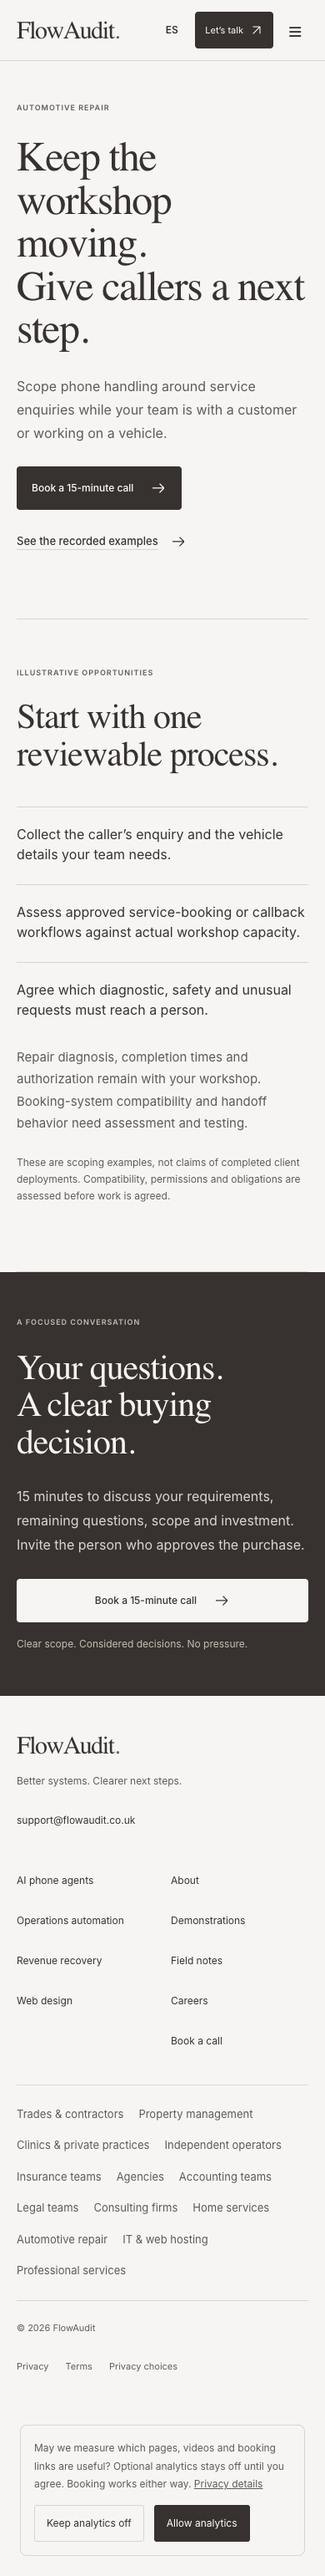
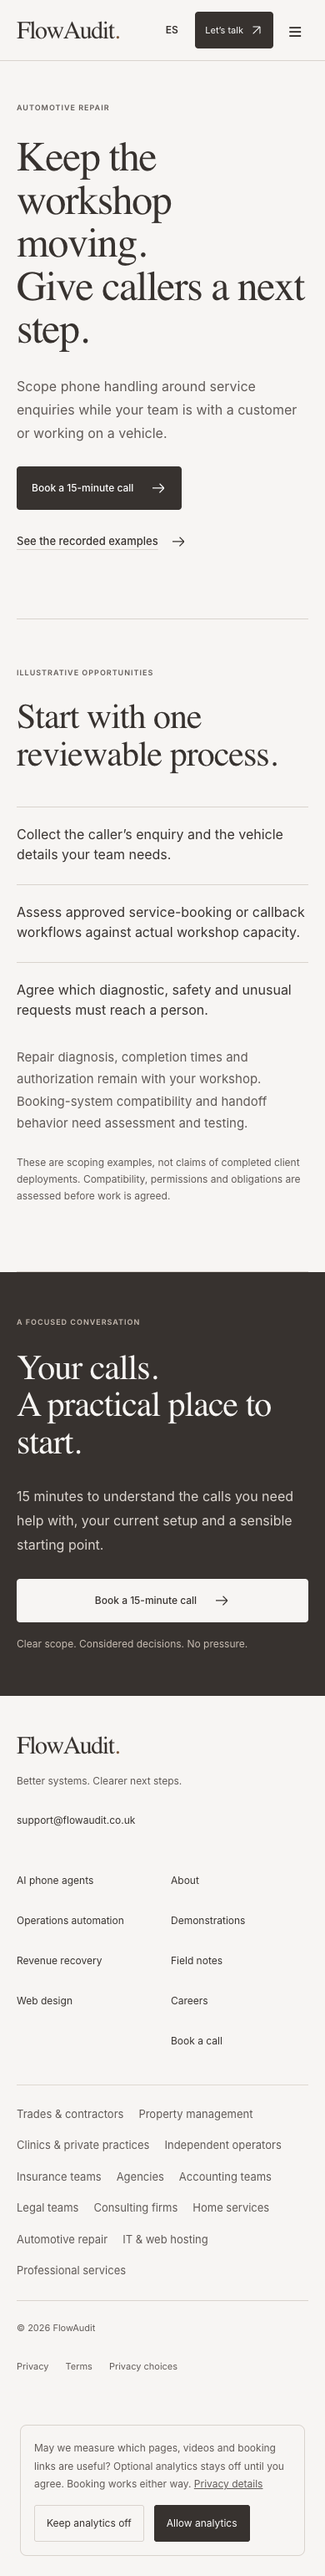
docs: record verified staging and final website review

Changed region(s): [[0.0615, 0.5295, 0.8923, 0.623]]

diff --git a/docs/transformation/INDEPENDENT-REVIEW.md b/docs/transformation/INDEPENDENT-REVIEW.md
@@ -1,41 +1,44 @@
-# Independent code, security and factual review · 21 October 2026
+# Independent website review · 21 October 2026
 
-Review covers the transformation diff against 7cf9785, with an initial review and a source recheck after implementing fixes. This is not production approval or a claim that the full media brief is complete.
+Rechecked source and recorded evidence at **4fb6f97**, draft PR **#32**. This review covers the website checkpoint only. It does not accept the unfinished video mission or authorize a production release.
 
 ## Scoped verdicts
 
-- **Technical source review: PASS for reviewed fixes, subject to final build/browser evidence.** No new auth weakening, credential creation, arbitrary execution, production-setting changes or privileged API expansion found. Existing private-showcase protections are retained. Typecheck and `git diff --check` passed independently during review.
-- **Factual/public-content review: remaining correction and fresh-bundle verification required.** Source import path for obsolete dictionaries is fixed. Clinics Spanish headline still contains the every-call absolute at recheck; see pending items below.
-- **Whole-task acceptance: INCOMPLETE.** Five-demo public release, main/extended/teaser finished films, rights/privacy clearance, narration and media QA remain explicit gaps. A production bible is not a finished film. Do not present this review as whole-task PASS.
+- **Website technical source: PASS for staging review.** Previously identified runtime dictionary leak, hero CSS collision, broken media links and catalogue positioning issues are fixed. Independent source inspection and `git diff --check` found no remaining blocking source defect in the reviewed changes. Final build/browser evidence is recorded below. Latest CI remains pending after the origin-specific test correction; local evidence is not a substitute for claiming CI passed.
+- **Website security/privacy source: PASS within changed scope.** No new authentication weakening, credential creation, privileged API expansion, token publication or production-setting change found. Existing private showcase/watch protections remain. Unreviewed showcase media has not been added to the new discoverable demo journey. Do not interpret noindex as access authorization or evidence of publication rights.
+- **Website design: PASS as a coherent reviewable foundation.** Desktop and 390px homepage screenshots were inspected. Warm editorial typography, clear call-first headline, restrained palette, consistent spacing, real recording and subordinate secondary services form a cohesive journey. Desktop proof sits beside the headline; mobile stacks cleanly with visible actions and no evident horizontal clipping. Consent now sits in document flow and does not cover the hero CTA. The proof panel still contains many download/explanation controls; it could be simplified progressively when relevant reviewed home-services proof is ready.
+- **Whole-task acceptance: INCOMPLETE.** Five-demo public release, finished 75–90s main VSL, conditional extended film, teasers, 9:16 masters and their final audio/caption/media QA remain undelivered here. The production bible is not a finished film. Do not describe this scoped review as whole-mission PASS.
 
-## Resolved findings · source verified
+## Findings resolved · source verified
 
-1. **Legacy public-dictionary exposure:** Initial generated output contained obsolete pricing examples and unsupported absolutes in `.next/static/chunks/9120-a152b739c0358d38.js`. Recheck confirms `LocaleProvider` now carries only locale and setter; `i18n.ts` imports no dictionaries and contains no discount helper. Legacy translation and unused section/content source is archived as `.txt` outside `src` and `public`, preserving history without runtime imports. A fresh production build and bundle scan must confirm the old chunk is gone; the old output was not itself proof of a failed fix.
-2. **Desktop hero CSS collision:** New hero now uses `fa-call-first-hero` with explicit `display:grid`, desktop columns and a ≤900px single-column override. It no longer inherits `.fa-phone-hero {display:block}`. Verify actual screenshots/computed layout in final browser pass.
-3. **Retired media anchors:** Overview link now uses `/industries/dental#full-demonstrations`; routine link uses `/industries/dental#demo` and “See the dental overview.” These target the retained dental page instead of removed general-product anchors.
-4. **Shared service positioning:** A separate `dentalOffer` preserves targeted dental content; common phone service label, headline, intro and note now describe general service-business phone agents, USA primary / UK supported. `/services` no longer needs to inherit the dental/DSO intro.
-5. **English clinics absolute:** English title now says “Help with patient enquiries” rather than “Answer every patient call.” Spanish remains to correct.
-6. **Public historical monetary film:** Five-minute arithmetic film and its downloads/transcript moved outside `public/`; runtime transcript entry and player choice removed. Historical source is preserved, not destroyed.
-7. **Booking event semantics:** Client funnel whitelist does not admit invented `booking_confirmed`; genuine provider confirmation paths remain separate. New test verifies rejection of unsupported client booking confirmation.
+1. Initial browser output contained legacy monetary examples and unsupported every-call claims because `LocaleProvider → i18n → translations` imported both complete dictionaries. `LocaleProvider` now carries only locale/setter; `i18n.ts` imports no dictionaries or discount helper. Obsolete source is preserved as `.txt` outside `src` and `public`. Fresh generated public-content scan reports zero matches for the defined monetary/absolute-claim patterns.
+2. New `fa-call-first-hero` explicitly declares desktop grid and a ≤900px single-column layout, isolating it from the legacy `.fa-phone-hero {display:block}` rule. Screenshot inspection confirms the intended layout.
+3. Overview/routine media links now target retained dental sections, with corrected link wording. The general product page no longer needs the removed `full-demonstrations` anchor.
+4. A separately preserved `dentalOffer` retains targeted dental copy; common phone-agent service catalogue language is general, USA primary / UK supported.
+5. Clinics every-call headline is qualified in both English and Spanish. Spanish now says “Ayuda con consultas de pacientes.”
+6. Historical five-minute arithmetic film and downloads/transcript moved outside public assets. Runtime transcript entry/player choice removed. Source history was preserved rather than destroyed.
+7. Social card now leads with “AI phone agents & voice automation · USA & UK.”
+8. English fallback industry content and technical/demo blocks have explicit language tagging where implemented; this improves language attribution but does not constitute full Spanish localization.
+9. Browser tests were adapted to the retained dental journey and calendar-first booking. Final bounded local browser JSON records 71 expected passes, one intentional skip, zero unexpected failures and zero flaky results; focused rerun records 28 expected passes and zero failures.
 
-## Pending corrections / limitations
+## Evidence inspected
 
-1. **P1 · Spanish clinics every-call absolute.** `src/lib/editorial-copy.ts` clinics title still says “Atiende cada llamada de paciente” (= answer every patient call). Replace with qualified enquiry-handling language in Spanish too, then include both languages in public-content scans.
-2. **P2 · Final browser tests still contain retired assertions.** `tests/e2e/marketing.spec.ts` around lines 391/403 still refers to “Back to the overview” and `main` media. Source routes have changed correctly; update test expectations to the retained dental overview/summary and run the entire browser suite. `vsl-journey.spec.ts` now points to the dental route; no full suite was run concurrently by this reviewer.
-3. **P2 · Language attribution.** New industry helper copies English into Spanish fields, demo cards are English-only, and `/trust` is English-only while global locale can set `html lang=es`. Translate or explicitly mark English-only sections with `lang=en`/provide a clear English fallback. This is a language/accessibility limitation, not evidence of translated completion.
-4. **P2 · Booking context still resets the calendar.** Optional context uses `setRevision` and remounts the Cal embed. Existing disclosure asks users to apply context before choosing a time. Determine whether supported provider APIs can update context without losing selection; otherwise retain the disclosure and report the limitation. No live Cal settings were changed.
-5. **P2 · Shared social card remains broad.** `src/app/opengraph-image.tsx` still says “Phone handling · Operations · Revenue recovery · Websites.” Refocus it on phone agents for consistency; secondary services can remain discoverable in their own journeys.
-6. **P2 · Final scope gaps.** Five-demo public library currently offers one cleared recording and four held-context cards. Main film script/bible is deliberately unfinished pending verified source dialogue, clearance/redaction and suitable narration. Those gaps must remain explicit and block full-mission completion claims.
+- Source recheck at 4fb6f97 and independent `git diff --check`: PASS.
+- Independent initial TypeScript check: PASS. Final parent-run strict types/lint and 50 unit tests: PASS per QA report; production build generates 65 routes.
+- `browser-all.json`: 71 passed, 1 intentionally skipped, 0 unexpected/flaky; duration 67.98 seconds. Live Cal smoke is intentionally opt-in/skipped; no test appointment was created.
+- `browser-final.json`: 28 passed, 0 skipped/unexpected/flaky; current JSON duration 16.97 seconds.
+- `public-content-scan.json`: zero matches across `.next/static/chunks`, `.next/server/app`, `public` for its defined monetary/absolute-claim patterns. This targeted scan does not establish every spoken word or image pixel is clear; no end-to-end audio/media rights review is claimed.
+- Visual inspection: `home-desktop.png` and `evidence/home-390.png`.
+- Lighthouse raw JSON independently read: home **96/100/100/100**, phone-agent **91/100/100/100**, demos **95/100/100/100**, home-services **98/100/100/100**, booking **98/100/77/100** (performance/accessibility/best-practices/SEO). CLS 0 in all five samples. These are lab measurements, not field Core Web Vitals.
+- Preview provided by implementer: https://flowaudit-platform-b9xgh7690-curtisboadums-projects.vercel.app . Parent verified HTTP 200 and noindex; reviewer did not independently make a preview-network request. Draft PR: https://github.com/curtisboadum/flowaudit-platform/pull/32 . Production remains unchanged.
 
-## Validation evidence
+## Remaining limitations / blockers
 
-- PASS: independent `pnpm --config.verify-deps-before-run=false typecheck` during initial review.
-- PASS: `git diff --check` at initial review and after source-fix recheck.
-- Confirmed initial defect: public bundle included legacy monetary examples/absolute claims.
-- SOURCE FIX VERIFIED: obsolete dictionary runtime import path removed.
-- PENDING: fresh-bundle content scan after current build; final lint/types/unit tests/build; browser/axe/Lighthouse evidence; media decode/listening/rights verification. Parent owns final execution and exact results.
+1. **Media and commercial evidence:** The new discoverable library has one previously documented redacted dental recording and four held-context cards. Relevant home-services proof still requires verified dialogue, privacy redaction and public-use rights. Existing source accessibility is not consent. No fabricated workflow or customer success may be inserted to fill the gap.
+2. **Finished production:** Main film, extended film decision, teasers, portrait versions, final SRT/transcript/stems and edit QA remain separate deliverables. Current production bible accurately describes gaps; it must not be presented as completed production.
+3. **CI resolved after review:** Initial origin-hardcode issue was fixed in 4fb6f97. Source CI run 39540762265 subsequently completed successfully. Draft PR remains appropriate because media and full acceptance remain open.
+4. **Performance targets not all met:** LCP lab samples are home 2.8s, product 3.5s, demos 3.0s, home-services/booking 2.5s. Product/demos (and home) exceed the <2.5s “good” target. Booking best-practices 77 reflects existing Cal third-party-cookie/Issues-panel behavior; no live provider settings were changed. Report these gaps without claiming all quality targets passed.
+5. **Booking context:** Applying optional context remounts the existing calendar; users are warned to apply it before selecting a time. Persistent direct provider fallback remains. No real confirmed-booking receipt was tested; a genuine supported provider event remains required for confirmation measurement.
+6. **Partial localization:** Language tagging now distinguishes English fallback content, but the new industry/trust/demo content is not fully translated. Do not claim full bilingual parity.
 
-No new public link exposes the supplied prospect token or personalized showcase label. No memories were edited. Findings were sent to the implementing parent incrementally; this review is stored in docs to respect the user's instruction not to alter local memory.
-
-## Implementation response
-After review: Spanish clinics absolute corrected; social card now phone-agent focused; stale film assertions updated; trust/demo English-only blocks marked lang=en. Calendar context deliberately remains optional, with an explicit warning that applying it reloads the provider before time selection; changing live Cal behavior is outside scope. Fresh bundle scan excludes technical React reference tokens from monetary-amount matching. See final QA report for executed evidence rather than treating earlier results as final.
+No memories were edited. Review files live in docs, respecting the user's no-memory-change instruction. No production release, paid purchase, DNS change, new credential or sales outreach is included in this review approval.

diff --git a/docs/transformation/WEBSITE-HANDOFF.md b/docs/transformation/WEBSITE-HANDOFF.md
@@ -1,0 +1,21 @@
+# Website handoff
+
+Worktree: /Users/curtis/Documents/Codex/2026-10-21/task/site
+Repository admin clone: /Users/curtis/Documents/Codex/2026-10-21/task/repository
+Remote: curtisboadum/flowaudit-platform
+Branch: feat/phone-agent-transformation
+Validated source commit: 4fb6f972ab0df52abbf84bb51127b4478c1ea1b1
+Draft PR: https://github.com/curtisboadum/flowaudit-platform/pull/32
+Stable branch preview: https://flowaudit-platform-git-feat-phone-534b32-curtisboadums-projects.vercel.app
+Verified immutable preview: https://flowaudit-platform-fglgnx4bv-curtisboadums-projects.vercel.app
+Local preview remains running: http://127.0.0.1:3016
+
+Implementation: homepage/general product, home-services priority, trades/property refinement, automotive/IT/professional-services, targeted dental preservation, technical/trust page, business-focused optional qualification, subordinate secondary services. Consent in flow; private showcase controls preserved; obsolete runtime financial/absolute-claim strings archived outside public; no new pricing or hypothetical financial film in public journey. Original checkouts and uncommitted work unchanged.
+
+Evidence: QA-REPORT.md, INDEPENDENT-REVIEW.md, browser-all.json (71 passed /1 intentional skip), browser-final.json (28 passed), Lighthouse JSON, evidence screenshots, public-content-scan.json. Remote CI run39540762265 passed on4fb6f97. Source lint/types/build50unit pass. Home96/product91/home-services98/demos95/book98 local performance; all accessibility/SEO100; book best-practices77 due existing Cal cookies. CLS0 all samples; some LCP above2.5s remains open.
+
+Media integration is deliberately open. Current discoverable /demos plays documented redacted dental evidence and shows four review-context cards. It is not a finished five-demo library or final home-services proof. Separate video task should provide cleared source/transcript/redaction evidence, 75–90s main film, thumbnails, measured captions and derivatives; do not insert private source recordings without clearance. No new main film rendering is taking place in this website worktree.
+
+Integration points: src/components/marketing/phone-platform.tsx (homepage/product proof); demo-library.tsx (public library); media-player.tsx and src/lib/media-transcripts.ts (player, caption/transcript, supported events). Incoming media must be permission reviewed, pricing-free and meaning preserving. Existing private /demo/showcase and /watch should not be replaced or have protections relaxed.
+
+Known limits: media clearance/production; partial Spanish fallback; optional-context calendar remount with explicit disclosure; no real appointment/confirmation receipt tested; Cal third-party-cookie browser findings; field CWV not measured. No production approval or release. No credentials, DNS, permissions, Cal settings, outreach or memories changed.

diff --git a/docs/transformation/QA-REPORT.md b/docs/transformation/QA-REPORT.md
@@ -27,3 +27,5 @@ Final bounded single-worker suite: **71 PASS, 1 intentionally skipped, 0 unexpec
 Preview: https://flowaudit-platform-git-feat-phone-534b32-curtisboadums-projects.vercel.app (Vercel target preview). Verified authenticated HTTP 200 and X-Robots-Tag noindex,nofollow,noarchive on 21 October. Existing production domain not aliased or changed. Draft PR https://github.com/curtisboadum/flowaudit-platform/pull/32.
 
 Additional local Lighthouse samples (performance/accessibility/best-practices/SEO): home-services **98/100/100/100**, demos **95/100/100/100**, booking **98/100/77/100**. Booking's best-practice failures are the existing Cal iframe's third-party cookies and browser Issues-panel findings; they are not resolved by this change and no live Cal settings were altered. LCP samples: product 3.5s and demos 3.0s exceed the 2.5s good threshold; CLS remains 0. Further real-world optimization/measurement remains open. This is evidence of a strong reviewable website foundation, not a claim that all requested quality targets are fully met.
+
+Remote source validation: **PASS** on commit 4fb6f972ab0df52abbf84bb51127b4478c1ea1b1. GitHub Website quality run 39540762265 completed successfully in 3m01s; lint, unit tests, build, typecheck and browser checks passed. GitGuardian and Vercel checks passed. Latest immutable preview: https://flowaudit-platform-fglgnx4bv-curtisboadums-projects.vercel.app ; verified HTTP 200, expected homepage and noindex header. Deployed product has one h1 and canonical https://flowaudit.co.uk/phone-agent; preview robots disallows all crawling. Evidence-only commits after this point do not alter the validated application source.
